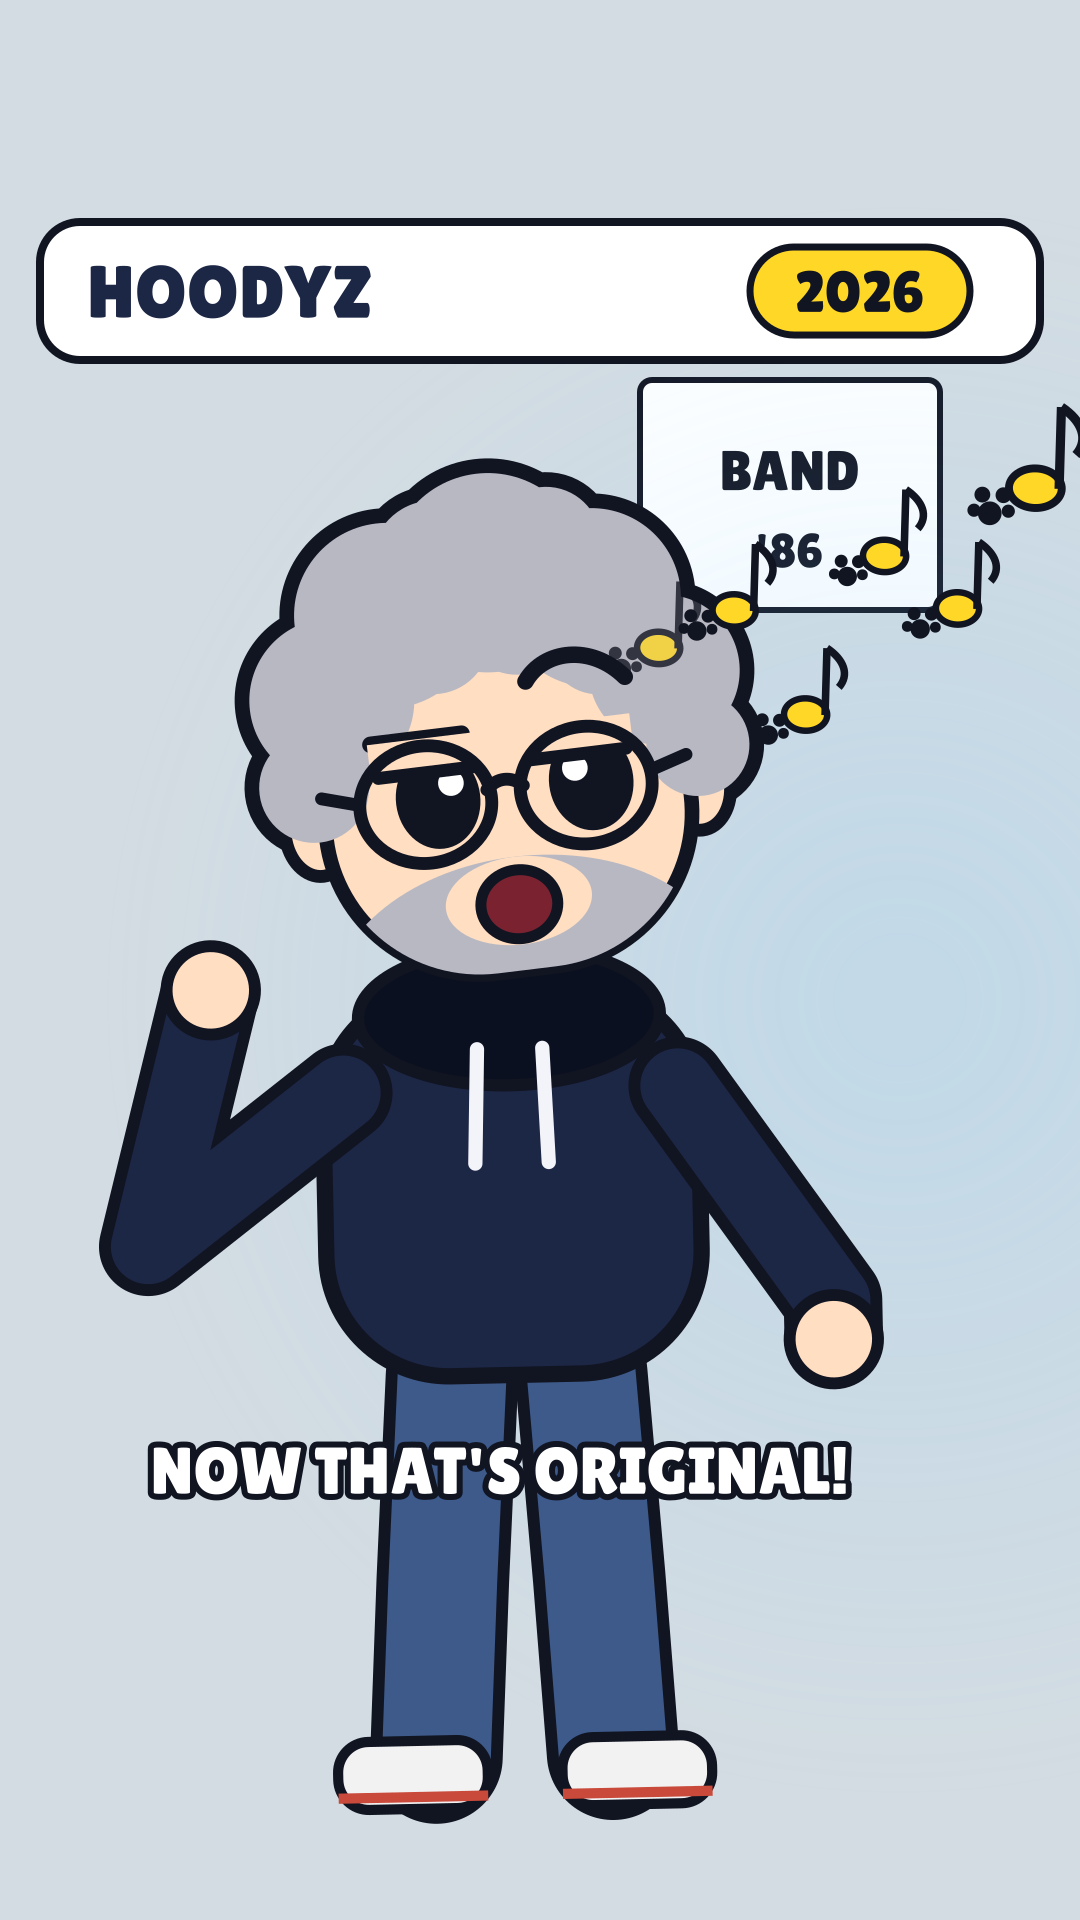
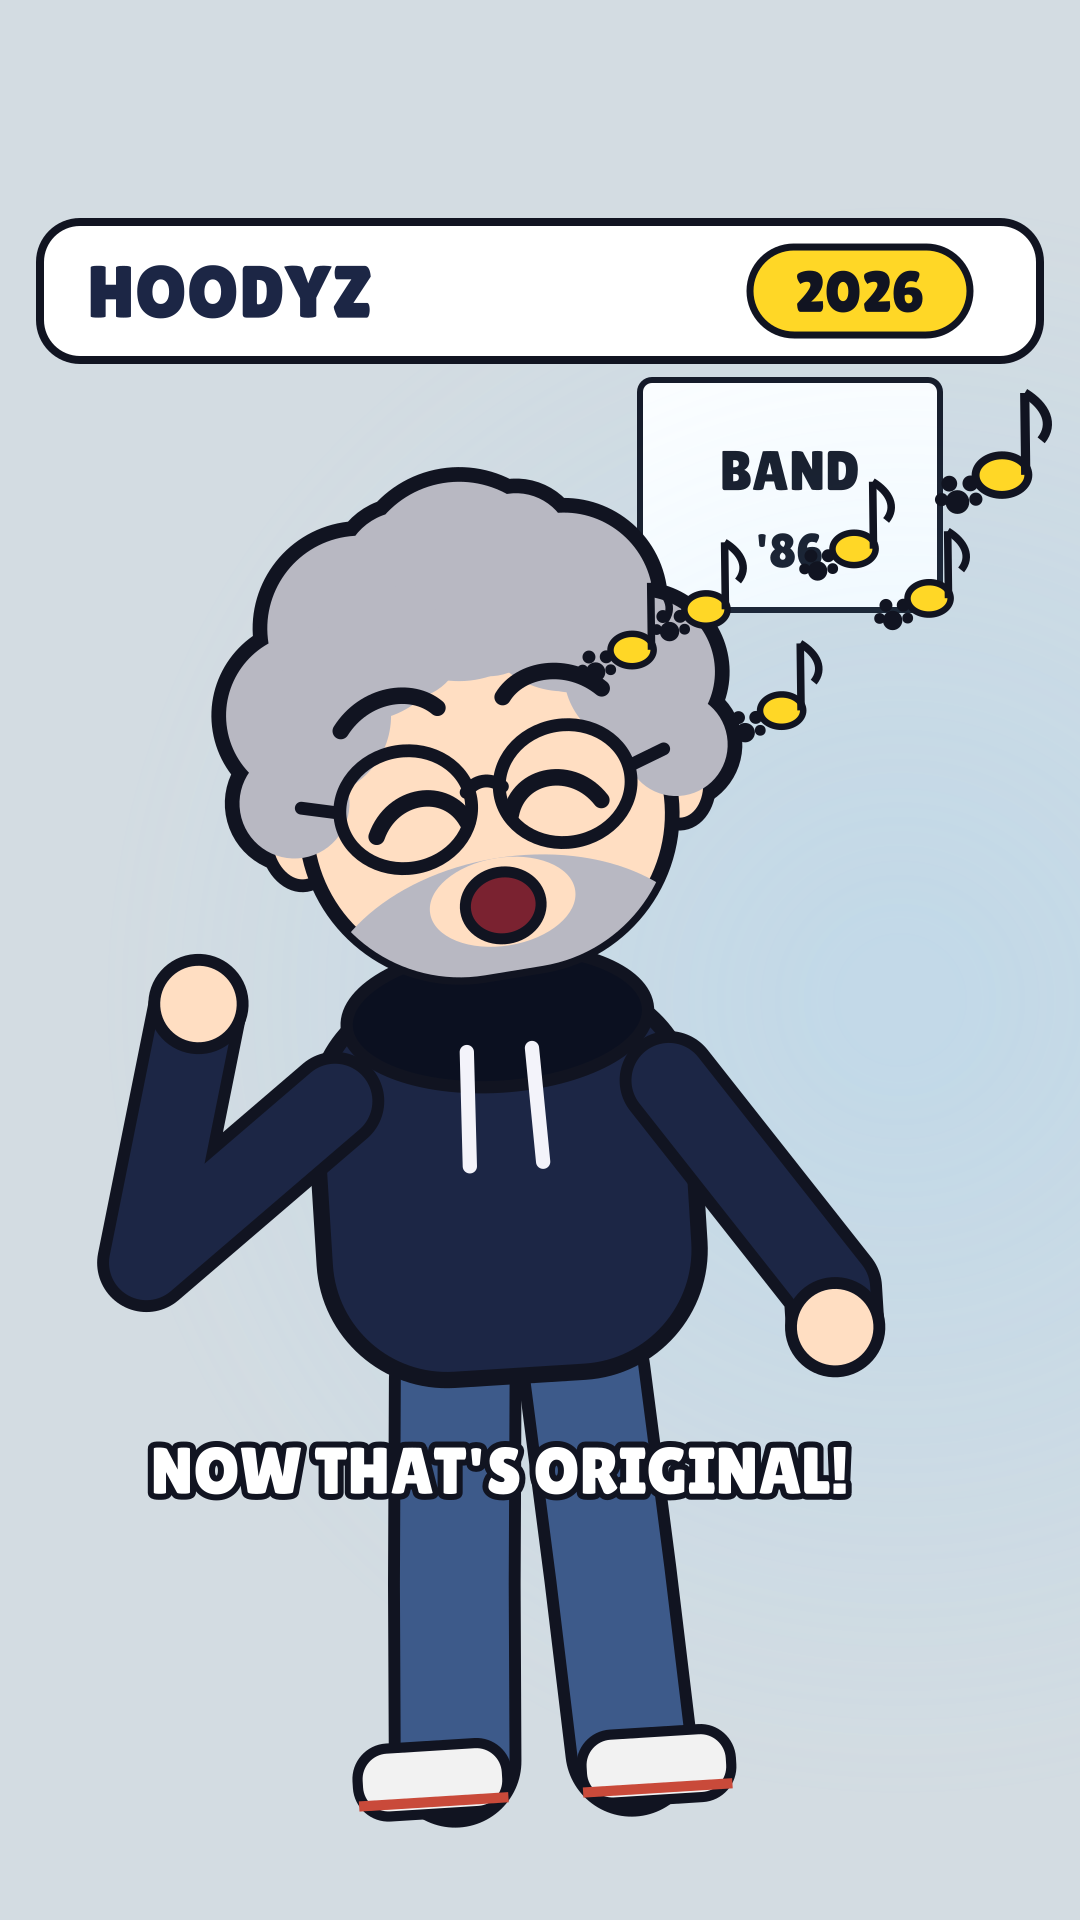
Make It Original v2: key poses after review (lean-in, recoil, matched joy, sequencer, ready tick, cat looks at end)
Claude-Session: https://claude.ai/code/session_01ED8DLRS3kXn1pdhXqYBM3Q

diff --git a/make-it-original/v2/shots.py b/make-it-original/v2/shots.py
@@ -12,15 +12,15 @@ from timeline import RIFF, AI_TUNE, ONSETS, AI_ONSETS, S16, FPS
 # ---------------- timeline (seconds) ----------------
 R86 = 0.067
 E = dict(drum=1.95, wave86=1.9, frag=4.4, views3=5.0, land=5.35, cat16=5.8, views10=7.75,
-         ask=9.3, ai=11.55, recoil=12.6, know=13.35, wave26=13.3, glance=14.5, cat26=15.0, orig=16.3, sideeye=18.25)
+         ask=9.3, ai=11.55, recoil=12.6, know=13.35, wave26=13.3, glance=14.5, cat26=15.0, orig=16.3, catlook=17.95)
 END = E['cat26'] + 2 * 2.0 - R86
 NF = int(round(END * FPS))
 SHOTS = [(1, 0.0, 0.8), (2, 0.8, 1.9), (3, 1.9, 3.4), (4, 3.4, 3.9), ('ff1', 3.9, 4.3),
          (5, 4.3, 5.3), (6, 5.3, 5.7), (7, 5.7, 7.6), (8, 7.6, 8.3), ('ff2', 8.3, 8.7),
          (9, 8.7, 9.2), (10, 9.2, 11.0), (11, 11.0, 11.5), (12, 11.5, 13.3), (13, 13.3, 14.5),
          (14, 14.5, 15.0), (15, 15.0, 16.0), (16, 16.0, 17.3), (17, 17.3, END)]
-KEY_T = {1: .5, 2: 1.45, 3: 2.75, 4: 3.8, 5: 5.15, 6: 5.55, 7: 6.6, 8: 8.0, 9: 9.0, 10: 9.9, 11: 11.3,
-         12: 12.9, 13: 13.95, 14: 14.85, 15: 15.6, 16: 16.6, 17: 18.5}
+KEY_T = {1: .5, 2: 1.55, 3: 2.75, 4: 3.8, 5: 5.15, 6: 5.55, 7: 6.6, 8: 8.0, 9: 9.0, 10: 9.9, 11: 11.4,
+         12: 12.95, 13: 13.95, 14: 14.85, 15: 15.6, 16: 16.45, 17: 18.6}
 CHARS = True     # False: draw sets only (used for the silhouette check)
 
 # ---------------- lip flap ----------------
@@ -256,7 +256,9 @@ def s7(c, t, f):   # low close-up on the paws; the camera pans with the cat
     if CHARS: cat(c, 640, 1250, 1.6, 'walk', phase=t * 3, paw_down=(on[0] % 4) if on else None, f=f)
     for i in on:
         ell(c, 560, 1262, 90, 18); c.set_source_rgba(*YEL, .85); c.fill()
-    motif(c, t, E['cat16'], 300, 900, 1.4, paws=True)
+    for i, ((m, _), on) in enumerate(zip(RIFF, ONSETS)):      # same screen positions as his fragment in shot 5
+        dt = t - (E['cat16'] + on)
+        if 0 <= dt < 1.6: note_glyph(c, 520 + i * 70, 760 - (m - 60) * 18 - dt * 40, 1.0, YEL, True, cl(dt / .08) * cl((1.6 - dt) / .4))
     if t >= 7.35: views_badge(c, 640, 640, '10M', (t - 7.35) / .25, col=YEL, size=110)
 
 def s8(c, t, f):   # MCU 2016: deadpan; the cat's 10M on his phone
@@ -265,11 +267,11 @@ def s8(c, t, f):   # MCU 2016: deadpan; the cat's 10M on his phone
     c.restore()
     views_badge(c, 540, 1460, 'CAT: 10M', 1, col=YEL, size=84)
 
-def world26(c, t, f, content='off', hpose='rest', hexpr='calm', hlean=0, hrot=0, wave_k=0, remote=None, emote=None, eye=(0, 0), roll=0, present=0, him=True):
+def world26(c, t, f, content='off', hpose='rest', hexpr='calm', hlean=0, hrot=0, wave_k=0, remote=None, emote=None, eye=(0, 0), roll=0, present=0, him=True, hgaze=0, hdx=0):
     office26(c, t); desk26(c, t, f, content); oldcat(c, f)
     if CHARS:
         robot_body(c, *ROBOT, emote, eye, f, roll, present)
-        if him: hoodyz(c, HX, HGY, HS, 2026, hexpr, hpose, f, lean=hlean, head_rot=hrot, op=lip('hoodyz', f), wave_k=wave_k)
+        if him: hoodyz(c, HX, HGY, HS, 2026, hexpr, hpose, f, lean=hlean, head_rot=hrot, op=lip('hoodyz', f), wave_k=wave_k, gaze=hgaze, head_dx=hdx)
     cassette(c, 160, 1490, .3, dust=1)
 
 def s9(c, t, f):
@@ -277,26 +279,26 @@ def s9(c, t, f):
 
 def s10(c, t, f):  # medium: he leans in, finger raised
     k = lerp(1.45, 1.6, ss((t - 9.2) / 1.8)); cam(c, k, 470, 1080, 520, 1000)
-    lean = .1 * ss((t - 9.25) / .35)
-    world26(c, t, f, hpose='point', hexpr='eager', hlean=lean, eye=(-14, 0))
+    lean = .2 * ss((t - 9.25) / .35)
+    world26(c, t, f, hpose='point', hexpr='eager', hlean=lean, eye=(-14, 0), hgaze=14, hdx=30 * lean / .2)
 
 def s11(c, t, f):  # CU robot: shoulder roll, loading
     cam(c, 2.6, ROBOT[0] + 10, ROBOT[1] + 30, 540, 980)
-    world26(c, t, f, emote='loading', roll=cl((t - 11.0) / .45), him=False)
+    world26(c, t, f, emote='loading' if t < 11.33 else 'ready', roll=cl((t - 11.0) / .45), him=False)
 
 def s12(c, t, f):  # over the monitor: the AI's art; his nod turns into a recoil
     office26(c, t)
     rec = ss((t - E['recoil']) / .18)
     if CHARS:
         nod = .05 * math.sin((t - E['ai']) * 4 * math.pi) * (1 - rec) if t < E['recoil'] else 0
-        hoodyz(c, 380, 700 + 602 * 1.25, 1.25, 2026, 'polite' if rec < .5 else 'yuck', 'recoil' if rec > .3 else 'rest', f,
-               lean=-.12 * rec, head_rot=nod - .1 * rec, legs_on=False)
+        hoodyz(c, 380, 700 + 602 * 1.25, 1.25, 2026, 'polite' if rec < .5 else 'aghast', 'recoil' if rec > .3 else 'rest', f,
+               lean=-.2 * rec, head_rot=nod - .16 * rec, legs_on=False, head_dx=-40 * rec)
     monitor(c, 470, 1080, 440, 320, 'ai', t, f)
     rr(c, 640, 1416, 100, 120, 10); fs(c, hx('1b2030'))
     for i, ((m, _), on) in enumerate(zip(AI_TUNE, AI_ONSETS)):
         dt = t - (E['ai'] + on)
         if 0 <= dt < 2.0:
-            a = cl(dt / .08) * cl((2.0 - dt) / .5); x = 520 + i * 70; y = 1000 - (m - 72) * 18 - dt * 40
+            a = cl(dt / .08) * cl((2.0 - dt) / .5); x = 600 + i * 64; y = 1000 - (m - 72) * 18 - dt * 40
             c.save(); c.translate(x, y); c.rotate(math.pi / 4); rr(c, -18, -18, 36, 36, 8)
             c.set_source_rgba(*BLUE, a); c.fill_preserve(); c.set_source_rgba(*INK, a); c.set_line_width(5); c.stroke(); c.restore()
 
@@ -317,7 +319,7 @@ def s16(c, t, f):  # matched performance: air guitar in the 1986 pose and rhythm
     last = E['cat26'] + ONSETS[-1]
     pose = 'air' if t >= last else 'airstrum'
     sway = .03 * math.sin((t - E['cat26']) / S16 * math.pi / 2)
-    portrait(c, t, f, 2026, pose, 'smug' if t >= last else 'rocking', strum_at(t, E['cat26']), rot=-.1 if t >= last else 0, sway=sway,
+    portrait(c, t, f, 2026, pose, 'rocking', strum_at(t, E['cat26']), rot=-.1 if t >= last else 0, sway=sway,
              lean=-.05 if t >= last else 0)
     motif(c, t, E['cat26'], 640, 760, 1.2, paws=True)
 
@@ -325,7 +327,7 @@ def s17(c, t, f):  # two-shot hold: smug air guitar; the robot looks at him, the
     k = lerp(1.25, 1.35, (t - 17.3) / (END - 17.3)); cam(c, k, 520, 1100, 540, 1010)
     bob = .06 * math.sin((t - 17.0) / .5 * math.pi * 2)
     world26(c, t, f, content='cat', hpose='air', hexpr='smug', hlean=-.05, hrot=-.08 + bob,
-            emote='sideeye' if t >= E['sideeye'] else None, eye=(-22, 0))
+            emote='side' if t >= E['catlook'] else None, eye=(-22, 0))
     motif(c, t, E['cat26'] + 2.0, 620, 760, 1.0, paws=True)
 
 FN = {1: s1, 2: s2, 3: s3, 4: s4, 5: s5, 6: s6, 7: s7, 8: s8, 9: s9, 10: s10, 11: s11, 12: s12, 13: s13, 14: s14, 15: s15, 16: s16, 17: s17}

diff --git a/make-it-original/v2/cast.py b/make-it-original/v2/cast.py
@@ -28,14 +28,14 @@ POSES = {
     'deflated': dict(L=[(-110, -250), (-40, -160)],  R=[(140, -250), (150, -170)], guitar=((40, -120), -.15)),
     'air':      dict(L=[(-215, -330), (-175, -480)], R=[(187, -290), (187, -267)]),
     'airstrum': dict(L=[(-150, -227), (-7, -200)],   R=[(187, -290), (187, -267)]),
-    'point':    dict(L=[(-120, -300), (-110, -205)], R=[(175, -520), (160, -650)], finger=True),
-    'recoil':   dict(L=[(-120, -300), (-110, -205)], R=[(170, -380), (150, -480)], palm=True),
+    'point':    dict(L=[(-120, -300), (-110, -205)], R=[(230, -470), (300, -590)], finger=True),
+    'recoil':   dict(L=[(-130, -300), (-60, -350)], R=[(130, -300), (60, -350)]),
     'phone':    dict(L=[(-90, -250), (-15, -330)],   R=[(90, -250), (30, -328)], phone=True),
     'wave':     dict(L=None, R=[(120, -300), (110, -205)]),
 }
 
 def hoodyz(c, x, gy, s, era, expr='calm', pose='rest', f=0, lean=0, head_rot=0, op=0, legs_on=True, wave_k=0,
-           strum=0, deflate=0, blink=None):
+           strum=0, deflate=0, blink=None, gaze=0, head_dx=0):
     """Full Hoodyz. lean rotates the body about the feet (+ toward the viewer's right).
     strum offsets the strumming hand; deflate 0..1 drops shoulders and head."""
     P = POSES[pose]
@@ -53,14 +53,14 @@ def hoodyz(c, x, gy, s, era, expr='calm', pose='rest', f=0, lean=0, head_rot=0, 
         arm(c, [shl, e, h], 1.0)
     e, h = P['R']
     if P.get('finger'):
-        limb(c, [shr, e, h], 44, NAVY); finger_hand(c, h[0], h[1], 1.0, -1.75)
+        limb(c, [shr, e, h], 44, NAVY); finger_hand(c, h[0], h[1], 1.0, -1.1)
     elif P.get('palm'):
         limb(c, [shr, e, h], 44, NAVY); palm(c, h[0], h[1], 1.0, -1.2, 0)
     else:
         arm(c, [shr, e, h], 1.0)
     if P.get('phone'):
         rr(c, -50, -400, 90, 150, 14); fs(c, INK, 0); rr(c, -42, -392, 74, 134, 10); c.set_source_rgb(*hx('6fd0ff')); c.fill()
-    hoodyz_head(c, 0, HEAD_Y + dy * 1.3, 1.08, era, expr, f, head_rot, op=op, blink=blink)
+    hoodyz_head(c, head_dx, HEAD_Y + dy * 1.3, 1.08, era, expr, f, head_rot, op=op, blink=blink, gaze=gaze)
     c.restore()
 
 def drummer_body(c, x, y_head, s, expr='deadpan', f=0, head_rot=0, op=0, wave_k=None, sticks=True):
@@ -81,6 +81,7 @@ def drummer_body(c, x, y_head, s, expr='deadpan', f=0, head_rot=0, op=0, wave_k=
 kit.FACES['rocking'] = ('happy', ('raised', 'raised'), 'grin')       # eyes shut, grinning: lost in the riff
 kit.FACES['yuck'] = ('narrow', ('angry', 'angry'), 'wobble')          # the recoil
 kit.FACES['eager'] = ('open', ('up', 'up'), 'grin')                   # the lean-in
+kit.FACES['aghast'] = ('big', ('worried', 'worried'), 'wobble')       # the recoil: wide eyes, wobbling mouth
 
 _visor = kit.visor
 def visor2(c, emote, eye, blink, f):
@@ -89,6 +90,9 @@ def visor2(c, emote, eye, blink, f):
         rr(c, -60, -10, 120, 22, 11); c.set_source_rgb(*hx('1f3a4a')); c.fill()
         k = (f % 24) / 24; rr(c, -60, -10, 120 * (.2 + .8 * k), 22, 11); c.set_source_rgb(*BLUE); c.fill()
         return
+    if emote == 'ready':
+        rr(c, -82, -54, 164, 92, 40); fs(c, hx('0b1020'), 6)
+        c.move_to(-34, 0); c.line_to(-8, 24); c.line_to(40, -26); c.set_source_rgb(*GREEN); c.set_line_width(14); c.stroke(); return
     if emote == 'side':        # eyes slid hard to the viewer's right (toward the old cat), half-lidded
         rr(c, -82, -54, 164, 92, 40); fs(c, hx('0b1020'), 6); c.set_source_rgb(*BLUE)
         for q in (-1, 1):
@@ -112,19 +116,26 @@ def robot_body(c, x, y, s, emote=None, eye=(0, 0), f=0, roll=0, present=0):
     return robot(c, x, y, s, emote, eye, f, seed=2, arms=arms)
 
 # ---------- monitor content ----------
-def ai_art(c, x, y, w, h, t):
-    """The AI's 'completely original' piece: confident, colourful, abstract; pulses with its notes."""
+def ai_art(c, x, y, w, h, t, t0=None):
+    """The AI's 'completely original' tune as a glowing music sequencer: a note grid, a playhead, notes lighting as they play."""
     c.set_source_rgb(*hx('101a2e')); c.rectangle(x, y, w, h); c.fill()
+    rows, colsn = 8, 16; cw, ch = w / colsn, h / rows
+    for r_ in range(rows + 1): c.move_to(x, y + r_ * ch); c.line_to(x + w, y + r_ * ch)
+    for k in range(colsn + 1): c.move_to(x + k * cw, y); c.line_to(x + k * cw, y + h)
+    c.set_source_rgba(.4, .6, .9, .25); c.set_line_width(2); c.stroke()
+    import timeline as TL
+    play = (t - (t0 if t0 is not None else t)) / TL.S16
     cols = [hx('6fd0ff'), hx('ff7ac8'), hx('ffd84a'), hx('7af0b0')]
-    for i in range(7):
-        a = t * (0.8 + i * .17) + i
-        cx = x + w * (.5 + .32 * math.cos(a)); cy = y + h * (.5 + .3 * math.sin(a * 1.3))
-        r = min(w, h) * (.12 + .05 * math.sin(t * 6 + i))
-        c.save(); c.translate(cx, cy); c.rotate(a)
-        if i % 3 == 0: c.move_to(0, -r); c.line_to(r, r); c.line_to(-r, r); c.close_path()
-        elif i % 3 == 1: rr(c, -r, -r, 2 * r, 2 * r, r * .3)
-        else: ell(c, 0, 0, r, r)
-        c.set_source_rgba(*cols[i % 4], .85); c.fill(); c.restore()
+    pos = 0
+    for i, (m, l) in enumerate(TL.AI_TUNE):
+        r_ = rows - 1 - (m - 72) % rows
+        lit = pos <= play < pos + l
+        rr(c, x + pos * cw + 2, y + r_ * ch + 3, l * cw - 4, ch - 6, 6)
+        c.set_source_rgba(*cols[i % 4], 1 if lit else .55); c.fill()
+        if lit: rr(c, x + pos * cw - 4, y + r_ * ch - 3, l * cw + 8, ch + 6, 9); c.set_source_rgba(*cols[i % 4], .35); c.fill()
+        pos += l
+    px = x + min(play, colsn) * cw
+    c.move_to(px, y); c.line_to(px, y + h); c.set_source_rgb(1, 1, 1); c.set_line_width(4); c.stroke()
 
 def cat_clip(c, x, y, w, h, t, f, playing=True):
     """The 2016 cat video on a screen: couch, guitar, the cat; 10M and a play bar."""
@@ -141,9 +152,10 @@ def cat_clip(c, x, y, w, h, t, f, playing=True):
     c.rectangle(x, y + h - 14 * k, w * ((t * .4) % 1), 14 * k); c.set_source_rgb(*RED); c.fill()
     c.restore()
 
+AI_T0 = 11.55
 def monitor(c, x, y, w, h, content, t, f, glow=True):
     rr(c, x - 16, y - 16, w + 32, h + 32, 20); fs(c, hx('1b2030'))
-    if content == 'ai': ai_art(c, x, y, w, h, t)
+    if content == 'ai': ai_art(c, x, y, w, h, t, AI_T0)
     elif content == 'cat': cat_clip(c, x, y, w, h, t, f)
     else: c.rectangle(x, y, w, h); c.set_source_rgb(*hx('20262f')); c.fill()
 
